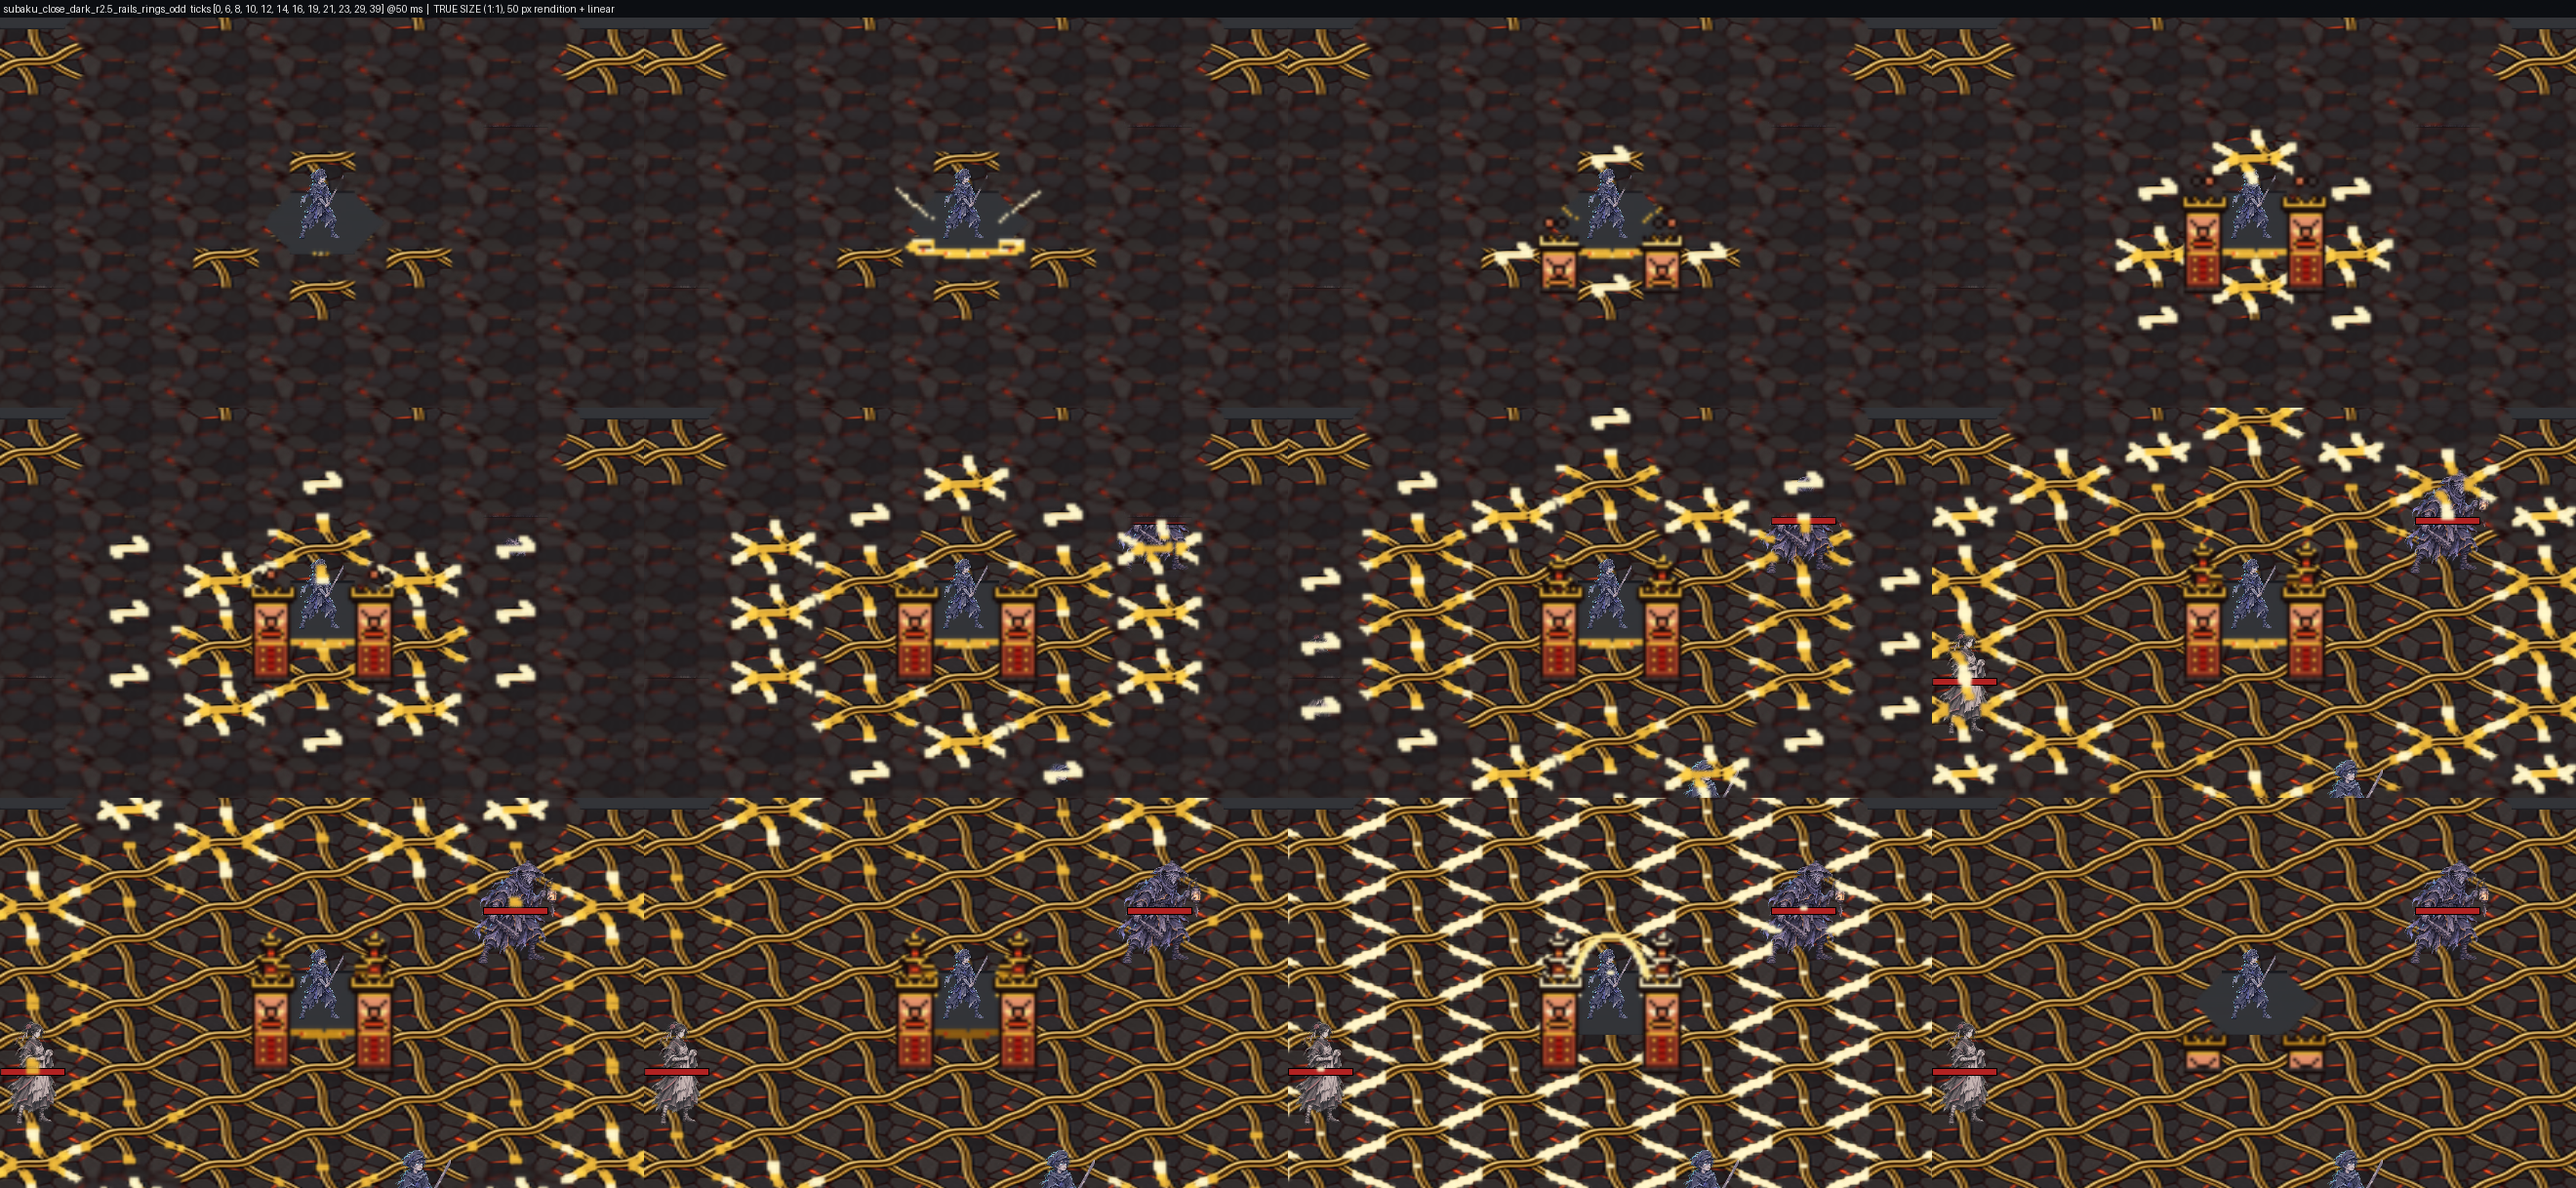
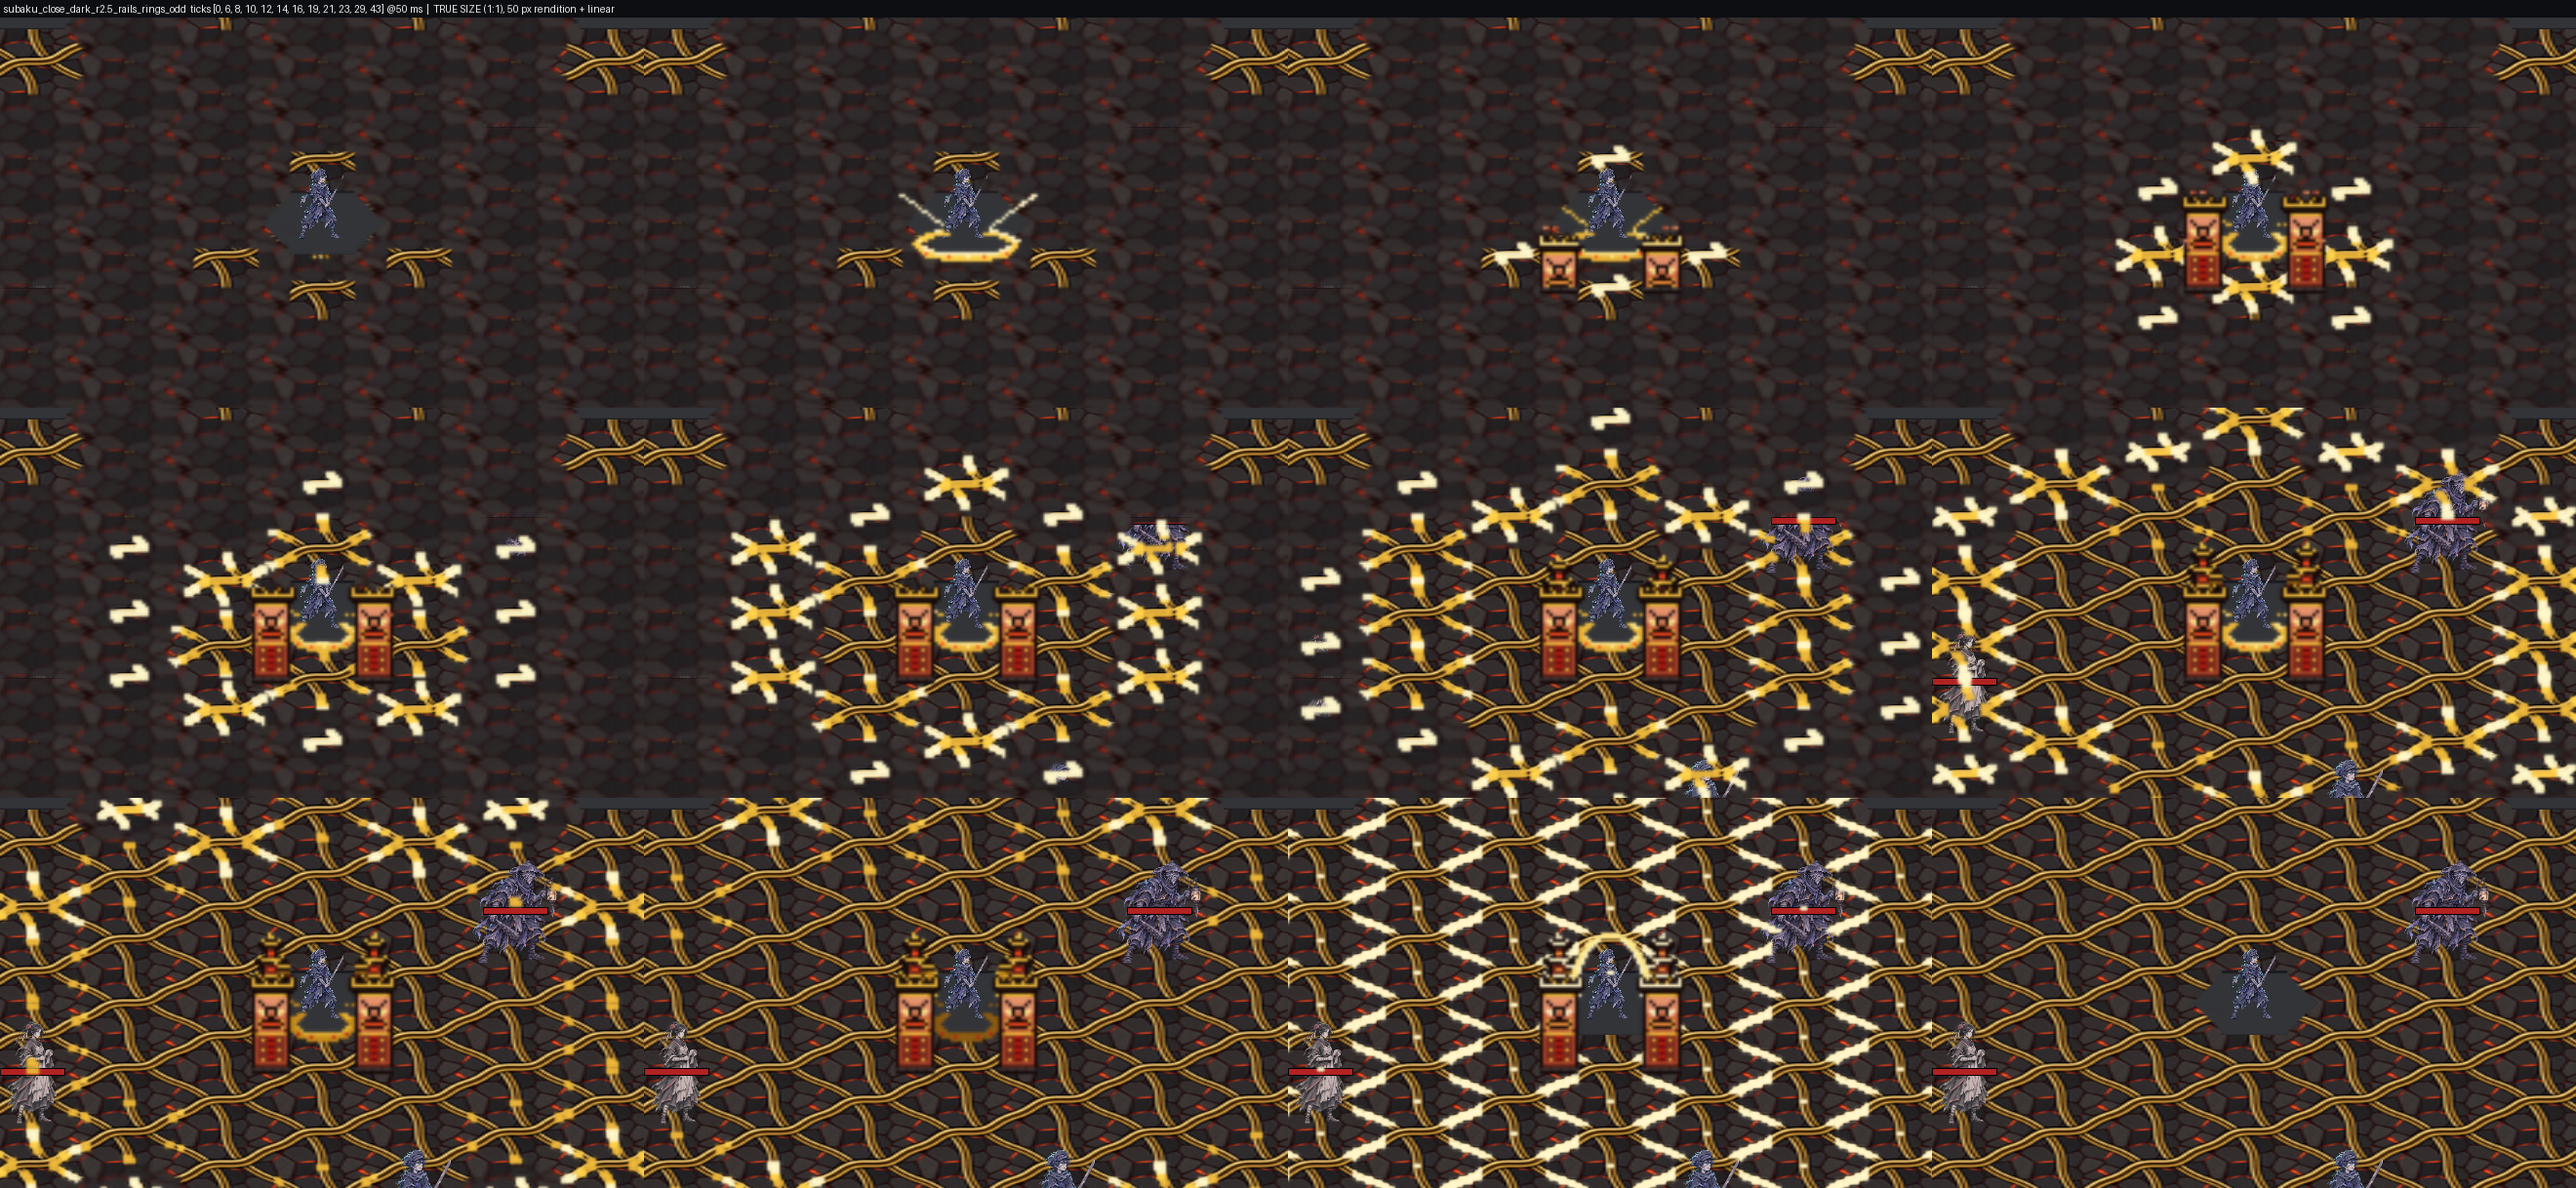
Subaku Palace: composites and reviewer stats re-rendered with gates v6 (cover version, QA r3)
Claude-Session: https://claude.ai/code/session_01Xibngekrh25gkZxxmbSp7p

diff --git a/docs/design/subaku_palace/qa_render_cliplate.py b/docs/design/subaku_palace/qa_render_cliplate.py
@@ -64,7 +64,7 @@ for _, land, cs in BANDS:
         ringerr.append((c, d, land, land - true_land))
 TILE = Q.tile(A + 'exports/tile_sbk_domain_v3.webp')
 SEAL = Q.clip(A + 'exports/anim_sbk_seal_v1.webp')
-GATES = Q.clip(A + 'gates/exports/anim_sbk_gates_rise_v5.webp')
+GATES = Q.clip(A + 'gates/exports/anim_sbk_gates_rise_v6.webp')
 WAVE = {a: Q.clip(A + 'exports/' + a) for a, _, _ in BANDS}
 # fighters: caster LPC; enemies LPC at ring1 above/below, ring 2, ring 4; AI originals at ring 1/3
 dc = CASTER[0]

diff --git a/docs/design/subaku_palace/qa_render_paths_patched.py b/docs/design/subaku_palace/qa_render_paths_patched.py
@@ -64,7 +64,7 @@ for _, land, cs in BANDS:
         ringerr.append((c, d, land, land - true_land))
 TILE = Q.tile(A + 'exports/tile_sbk_domain_v3.webp')
 SEAL = Q.clip(A + 'exports/anim_sbk_seal_v1.webp')
-GATES = Q.clip(A + 'gates/exports/anim_sbk_gates_rise_v5.webp')
+GATES = Q.clip(A + 'gates/exports/anim_sbk_gates_rise_v6.webp')
 WAVE = {a: Q.clip(A + 'exports/' + a) for a, _, _ in BANDS}
 # fighters: caster LPC; enemies LPC at ring1 above/below, ring 2, ring 4; AI originals at ring 1/3
 dc = CASTER[0]
